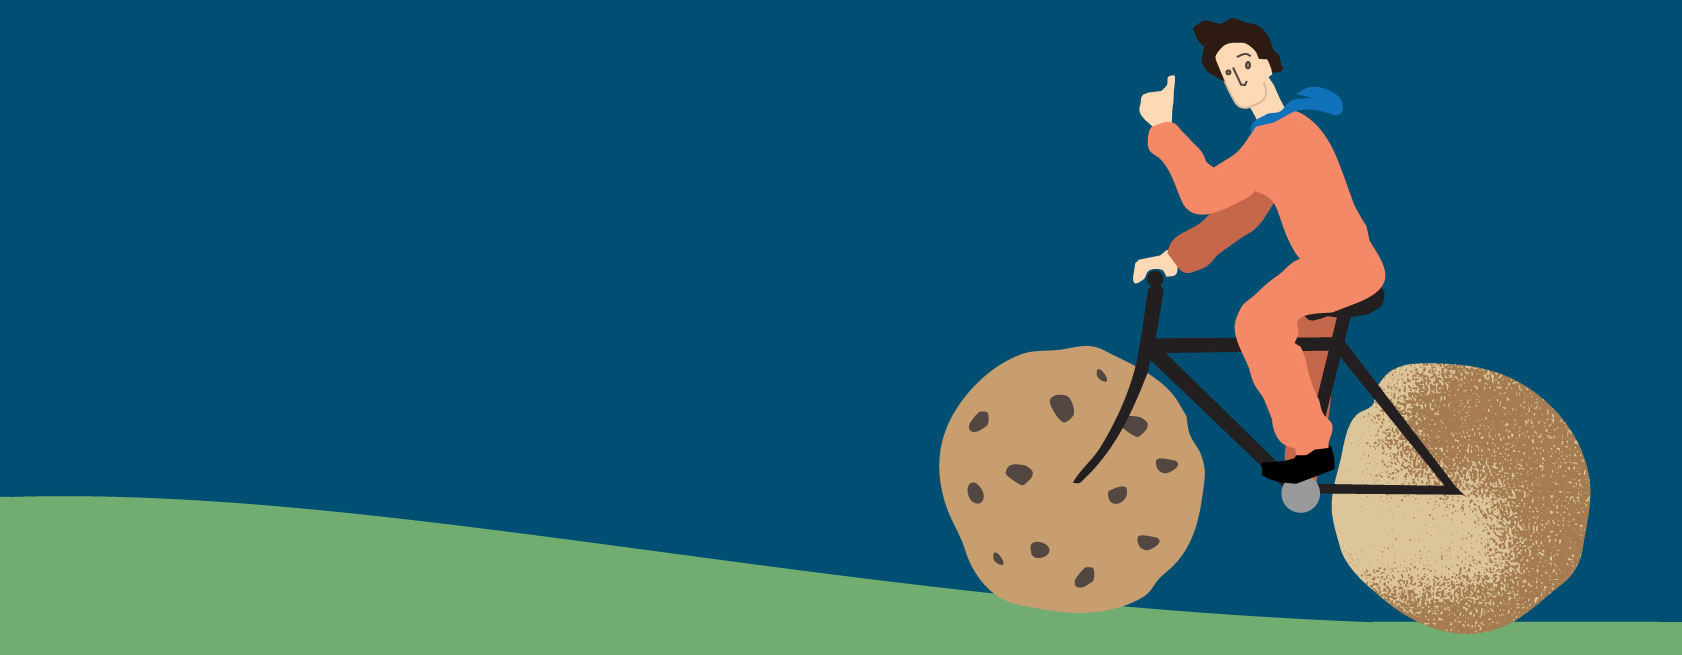
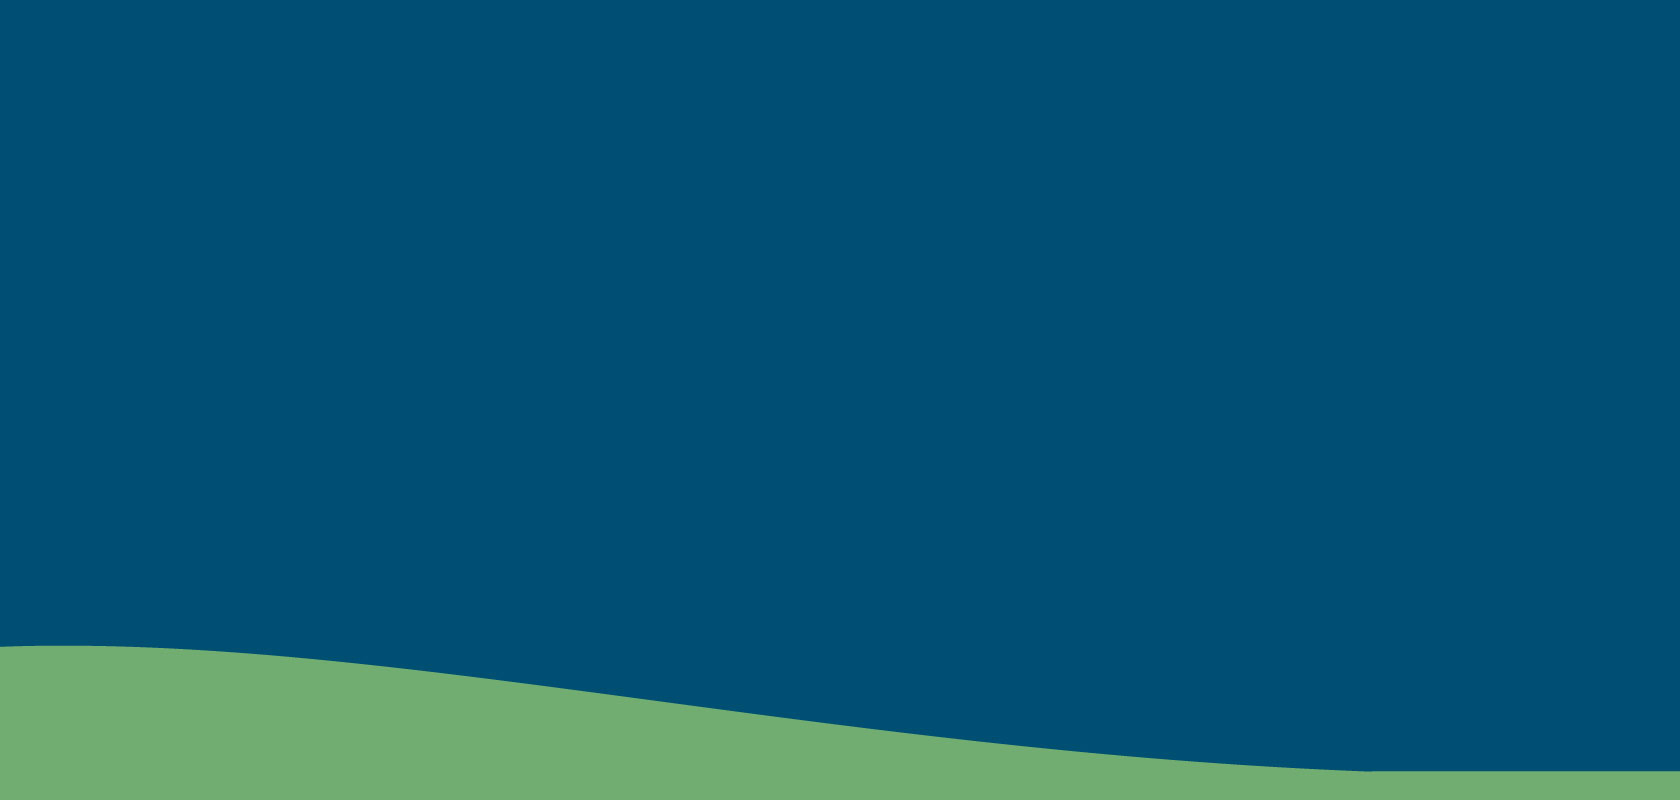
fixed floating & resizing weirdness

Changed region(s): [[0.0, 0.0305, 1.0, 0.9771]]

diff --git a/5/poopie.html b/5/poopie.html
@@ -3,7 +3,7 @@
   <meta charset='utf-8'>
   <title>Poopie Lane</title>
   <meta property="og:title" content="Poopie Lane: JP's Premiere Dog Park" />
-  <meta property="og:type" content="video.movie" />
+  <meta property="og:type" content="website" />
   <meta property="og:url" content="http://poopielane.org" />
   <meta property="og:image" content="http://poopielane.org/images/dogpark.jpg" />
   
@@ -20,7 +20,7 @@
 <script type='text/javascript'>
     jQuery(function($){
         $(".tweet").tweet({
-            username: "poopielane",
+            username: "AustinOffLeash",
 			avatar_size: 32,
 			count: 3,
           template: "{text}<br/>{time} &raquo; {retweet_action}"
@@ -33,10 +33,11 @@
       });
 </script>
 </head>
+
 <body>
 <header>
 <div class="logo-wrapper">
-<img src="poopie-logo.png" alt="Poopie LAne logo"><h1>Poopie Lane</h1>
+<img src="poopie-logo.png" alt="Poopie Lane logo"><h1>Poopie Lane</h1>
 </div>
 <div class="hours-weather">
 <p>Today's Hours: 7am - 7pm | 30oF</p>
@@ -54,66 +55,49 @@
 </nav>
 </header>
 
-<section id='right-column' class='clearfix'>
+<section id='body-content' class='clearfix'>
+
 <section id='dog-slideshow'>
-</section>
+<img src='images/pug.png'>
 </section>
 
-<section id='recent-news' class='clearfix'>
-<div class='content-wrapper'>
-<div id='blog-column'>
-<article class='blog-post'>
-<footer class='blogdate'>
+<section id='welcome'>
+<h1>Welcome to Poopie Lane</h1>
+<p>Conveniently located in the heart of the city, Poopie Lane is Jamaica Plain’s premiere dog park. With a fenced-in area for off-leash activities, doggie fountains, complimentary poop bags, and even an agility area, you are sure to have a fun time with your pooch. We are a community of dog lovers that seek to create the best possible experience for you and your canine.</p>
+</section>
+
+<article id='update'>
+<h2>Volunteers Needed for Bark in the Park</h2>
+<span class='post-date'>Posted February 29, 2012</span>
+<p>Conveniently located in the heart of the city, Poopie Lane is Jamaica Plain’s premiere dog park. With a fenced-in area for off-leash activities, doggie fountains, complimentary poop bags, and even an agility area, you are sure to have a fun time with your pooch. We are a community of dog lovers that seek to create the best possible experience for you and your canine.</p>
 </article>
 
-<article class='blog-post'>
-<h1>"YO SOY FIESTA"</h1>
-<footer class='blogdate'>Posted on <time>February 2, 2012</time></footer>
-<p>Sweet Idea will be OPEN this Sunday for the Super Bowl from 6 PM until whenever I’m out of cookies. TELL YOUR FRIENDS. (Also, GO PATS)<p>
-<p>Also, Levar Burton is gonna be on Tufts campus this weekend? Do you think he likes cookies?</p>
-<p>Week one was so awesome, thanks again to everyone who ordered and I hope that you all are still hungry this week! There will be some special surprises in store… keep an eye on Sweet Idea’s Facebook and Twitter for more info.</p>
-<p>Sweet Idea opens tonight at 9 PM and delivers until 3 AM! 6 cookies for $5. Chocolate chip and snickerdoodle. Text 424-241-2825. 5 bux. 6 cookies. Free delivery. No hassle.</p>
+<aside id='faqs'>
+<a href='#'><img src='images/park-info.png' alt='Park Location & Hours' width='336' height='114'></a>
 
-<p>SEE YOU SOON</p>
-</article>
-<h2>>> Read Older News</h2>
-</div>
+<a href='#'><img src='images/rules.png' alt='Park Rules' width='336' height='114'></a>
 
-<aside>
+<a href='#'><img src='images/join-friends.png' alt='Join Friends of Poopie Lane' width='336' height='114'></a>
+
 <div id='twitter-feed'>
-<h1>@haveasweetidea</h1>
+<h1>Follow @PoopieLane on Twitter</h1>
 <div class='tweet'></div>
 </div>
 
-<div id='order-map'>
-<div class="center-info">
-<h1>Are you within the delivery area?</h1>
-<a href='order.html'><img src='images/delivery-map-sm.png' alt='delivery area' width='216' height='215'></a>
-<h1>ORDER HERE</h1>
-</div>
-</div>
+<a href='#'><img src='images/photo-album.png' alt='Photo Album' width='336' height='114'></a>
 </aside>
-</div>
 </section>
 
-<footer class='misc-info clearfix'>
-<div class="footer-wrapper">
-<div id="legal">
-<p>Our cookies are baked in food-grade facilities at CropCircle Kitchen in Jamaica Plain. We are a legitimate operation with a food permit from the City of Boston. Allergy information? Legal information? Our cookies are baked in food-grade facilities at CropCircle Kitchen in Jamaica Plain. We are a legitimate operation with a food permit from the City of Boston. Allergy information? Legal information?</p>
-<p>© 2012 John Piermarini</p>
+<footer class='bottom-footer'>
+<div class='connect'>
+<div id='newsletter'>
+</div>
+<div id='legal'>
+<p>This page is maintained by Friends of Poopie Lane, a 501(c)(3) nonprofit organization dedicated to the maintenance of Poopie Lane dog park.</p>
+<p>© Friends of Poopie Lane</p>
 </div>
 
 <div id="fyi">
-<p>$5 for 6 cookies. Free delivery. 9PM to 3AM. Thursday, Friday, and Saturday. Text 424-241-2825 or message @haveasweetidea.</p>
-
-<div id='social-media-like'>
-  <ul>
-    <li><a href='https://www.facebook.com/haveasweetidea'><img src='images/fbook.png' alt='Like on Facebook' width='32' height='32'></a></li>
-    <li><a href='https://twitter.com/#!/haveasweetidea'><img src='images/twitter.png' alt='Follow on Twitter' width='32' height='32'></a></li>
-    <li><a href='https://www.facebook.com/haveasweetidea'><img src='images/gplus.png' alt='Google Plus' width='32' height='32'></a></li>
-  </ul>
-</div>
-</div>
 
 </div>
 </footer>

diff --git a/5/afan.html b/5/afan.html
@@ -1,0 +1,87 @@
+<!doctype html>
+<head>
+  <meta charset='utf-8'>
+  <title>Poopie Lane</title>
+  <meta property="og:title" content="Americans for Afternoon Naps" />
+  <meta property="og:type" content="website" />
+  <meta property="og:url" content="http://afan.org" />
+  <meta property="og:image" content="http://afan.org/images/afan-logo.jpg" />
+  
+  <link rel='shortcut icon' href='favicon.ico' />
+  <link rel='stylesheet' type='text/css' href='css/afan-css.css' />   
+</head>
+
+<body>
+<header>
+<div class='logo-wrapper'>
+<h1>Americans <span id='ital'>for</span> Afternoon Naps</h1>
+</div>
+
+<div id='connect'>
+<div id='donate'>
+Donate
+</div>
+<div id='social-media'>
+  <ul>
+    <li><a href='https://www.facebook.com/haveasweetidea'><img src='images/fbook.png' alt='Like on Facebook' width='32' height='32'> Facebook</a></li>
+    <li><a href='https://twitter.com/#!/haveasweetidea'><img src='images/twitter.png' alt='Follow on Twitter' width='32' height='32'></a> Twitter</li>
+    <li><a href='#'><img src='images/gplus.png' alt='RSS Feed' width='32' height='32'></a>RSS Feed</li>
+  </ul>
+</div>
+
+<nav class='top-nav'>
+<div id='nav-wrap'>
+  <ul>
+    <li><a href='#'>Mission</a></li>
+    <li><a href='#'>Resources</a></li>
+    <li><a href='#'>Take Action</a></li>
+    <li><a href='#'>Events</a></li>
+    <li><a href='#'>Press</a></li>
+    <li><a href='#'>About</a></li>
+  </ul>
+</div>
+</nav>
+</header>
+
+<section id='infoslides'>
+Taking a 20-minute nap approximately eight hours after you have awaken will do more for your stamina than sleeping another 20 minutes in the morning.
+
+A study at NASA on sleepy military pilots and astronauts found that a 40-minute nap improved performance by 34% and alertness 100%.
+
+“You must sleep some time between lunch and dinner, and no half-way measures… Don't think you will be doing less work because you sleep during the day. That's a foolish notion held by people who have no imagination. You will be able to accomplish more.” – Winston Churchill
+</section>
+
+<aside id='right-links'>
+<div id='join-us'>
+<h3>March 12, 2012</h3>
+<h1>Join us forNap Awareness Day!</h1>
+<h2>The first Monday after we turn our clocks forward for Daylight Saving Time</h2>
+</div>
+</aside>
+
+<div id='3-up-articles'
+<section class='front-article'>
+<a href='http://newscenter.berkeley.edu/2010/02/22/naps_boost_learning_capacity/'><img src='images/memory-encoding.png' alt='Memory Encoding Deficit graph' width='280' height='150'>
+<h2>An afternoon nap markedly boosts the brain’s learning capacity</h2></a>
+<p>New research from the University of California, Berkeley, shows that an hour’s nap can dramatically boost and restore your brain power.</p>
+</section>
+
+<section class='front-article'>
+<a href='http://stress.about.com/od/lowstresslifestyle/a/powernap.htm'><img src='images/memory-encoding.png' alt='Memory Encoding Deficit graph' width='280' height='150'>
+<h2>Power Napping for Increased Productivity, Stress Relief & Health</h2></a>
+<p>Sleep is cumulative; if you lose sleep one day, you feel it the next. If you miss adequate sleep several days in a row, you build up a 'sleep deficit'</p>
+</section>
+
+<section class='front-article'>
+<a href='http://saramednick.com/htmls/book/napwheel.htm'><img src='images/memory-encoding.png' alt='Memory Encoding Deficit graph' width='280' height='150'>
+<h2>Calculate when to take a power nap, and for how long.</h2></a>
+<p>The Nap Calculator shows us exactly when our optimum napping time is, and exactly how long we should try to sleep.</p>
+</section>
+
+</div>
+
+<footer>
+</footer>
+
+</body>
+</html>

diff --git a/5/css/sweet-css.css b/5/css/sweet-css.css
@@ -76,12 +76,14 @@ header img {float:right;} */
   
 nav {background:#004F72;}
   
-#nav-wrap {background: url(../images/sweet-top.jpg) no-repeat;
- background-size: 100%;}
+#nav-wrap {background: url(../images/sweet-top1020.jpg);
+background-repeat:repeat-x;
+padding-bottom:20px;}
 
 #nav-wrap ul {list-style:none;
   text-align:center;
-  margin:0 auto;}
+  margin:0 auto;
+  padding-top:14px;}
 
 nav li {font-family: 'Lilita One', cursive;
   color:#F48967;
@@ -99,36 +101,50 @@ nav a:visited {color:#F48967;
   
 nav a:hover {color:#F48967; 
   text-decoration:none;}
+  
+#arrow-float {position:relative;}
+#arrow-float img {position:absolute;
+top:-75px;
+left:8px;}
 
-#top-intro {width:100%;
-  padding:2em 0;
-  background: url(../images/sweet-bg.jpg) no-repeat;
- background-size: 100%;
- height:30em;}
+#top-background {width:100%;
+  background: url(../images/sweet-bg.jpg);
+  background-size:100% 100%;
+background-repeat:no-repeat;
+position:relative;}
   
 #top-wrapper {width:90%;
-margin:0 auto;
-padding-bottom:2em;}
+margin:0 auto;}
   
-#top-textbox {width:50%;}
+#top-textbox {width:50%;
+position:relative;
+float:left;
+margin-bottom:5em;}
   
-#top-intro h1 {font-family: 'Lilita One', cursive;
+#top-background h1 {font-family: 'Lilita One', cursive;
   font-size:24px;
   color:#FFF;
   padding-bottom:10px;}
   
-#top-intro h2 {font-family: 'Helvetica Neue', Helvetica, Arial, sans-serif;
+#top-background h2 {font-family: 'Helvetica Neue', Helvetica, Arial, sans-serif;
   font-weight:600;
   font-size:16px;
   line-height:24px;
   color:#FFFFB0;
   padding-bottom:10px;}
   
-#top-intro p {font-family: 'Helvetica Neue', Helvetica, Arial, sans-serif;
+#top-background p {font-family: 'Helvetica Neue', Helvetica, Arial, sans-serif;
   font-weight:400;
   font-size: 16px;
   line-height:24px;
   color:#FFF;}
+  
+#bike-guy {width:30%;
+position:absolute;
+bottom:0;
+right:3em;}
+
+/*#bike-guy img {max-width:100%;}*/
   
 /*Body*/
 
@@ -139,7 +155,7 @@ padding-bottom:2em;}
 padding:2em;
 margin:0 auto;}
 
-#blog-column {width:65%;
+#blog-column {width:60%;
 float:left;
 padding-bottom:2em;}
 
@@ -181,7 +197,7 @@ padding-bottom:2em;}
   color:#FFFFB0;
   padding:.5em 0 1em 0;}
   
-aside {width:25%;
+aside {width:30%;
   float:right;}
 
 #twitter-feed {background:#4D4D4D;
@@ -208,8 +224,7 @@ margin:0 auto;}
   font-size:24px;
   color:#F48967;}
   
-#order-map img {max-width:100%;
-padding:1em;}
+#order-map img {max-width:100%;}
 
 /*Footer*/
 

diff --git a/5/sweet.html b/5/sweet.html
@@ -3,7 +3,7 @@
   <meta charset='utf-8'>
   <title>Sweet Idea Cookie Delivery</title>
   <meta property="og:title" content="SWEET IDEA Cookies" />
-  <meta property="og:type" content="video.movie" />
+  <meta property="og:type" content="website" />
   <meta property="og:url" content="http://haveasweetidea.com" />
   <meta property="og:image" content="http://haveasweetidea.com/images/logo-cookies.jpg" />
   
@@ -45,19 +45,22 @@
     <li><a href='about.html'>ABOUT</a></li>
     <li><a href='news.html'>NEWS</a></li>
     <li><a href='index.html'><img src="images/sweet-logo.png" alt="site logo" width="284" height="188"></a></li>
-    <li><a href='about.html'>ORDER</a></li>
+    <li><div id='arrow-float'><img src='images/green-arrow.png'><a href='about.html'>ORDER</a></div></li>
     <li><a href='news.html'>CONTACT</a></li>
   </ul>
 </div>
 </nav>
 </header>
 
-<section id='top-intro' class='clearfix'>
+<section id='top-background' class='clearfix'>
 <div id='top-wrapper'>
 <div id='top-textbox'>
 <h1>Your friendly late-night cookie delivery service!</h1>
 <h2>$5 for 6 cookies. Free delivery. 9PM to 3AM. Thursday, Friday, and Saturday. Text 424-241-2825 or tweet @haveasweetidea.</h2>
 <p>Sweet Idea is a simple concept: homemade cookies delivered to your doorstep via bicycle—rain, snow, hurricane, doesn’t matter. I wear an orange jumpsuit and am really easy to spot and flag down for superfast deliciousness.</p>
+</div>
+<div id='bike-guy'>
+<img src='images/bike-guy2.png'>
 </div>
 </div>
 </section>
@@ -106,7 +109,7 @@
 </div>
 </section>
 
-<footer class='misc-info clearfix'>
+<footer class='misc-info'>
 <div class="footer-wrapper">
 <div id="legal">
 <p>Our cookies are baked in food-grade facilities at CropCircle Kitchen in Jamaica Plain. We are a legitimate operation with a food permit from the City of Boston. Allergy information? Legal information? Our cookies are baked in food-grade facilities at CropCircle Kitchen in Jamaica Plain. We are a legitimate operation with a food permit from the City of Boston. Allergy information? Legal information?</p>
@@ -124,6 +127,8 @@
   </ul>
 </div>
 </div>
+</div>
+<div style='clear:both;'>
 </div>
 </footer>
 </body>
